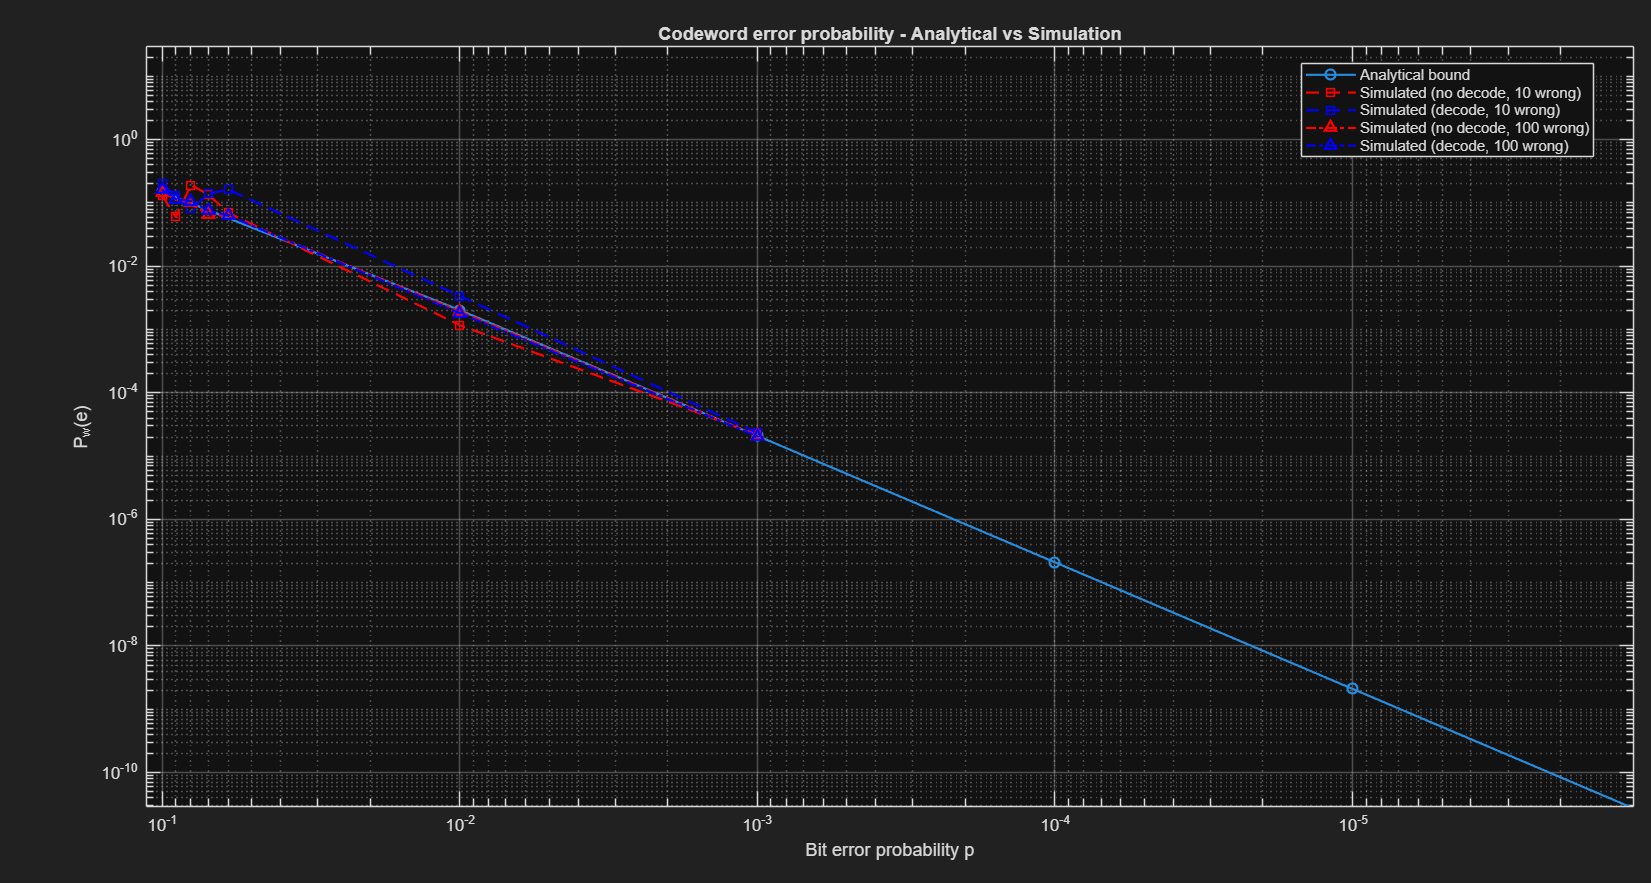
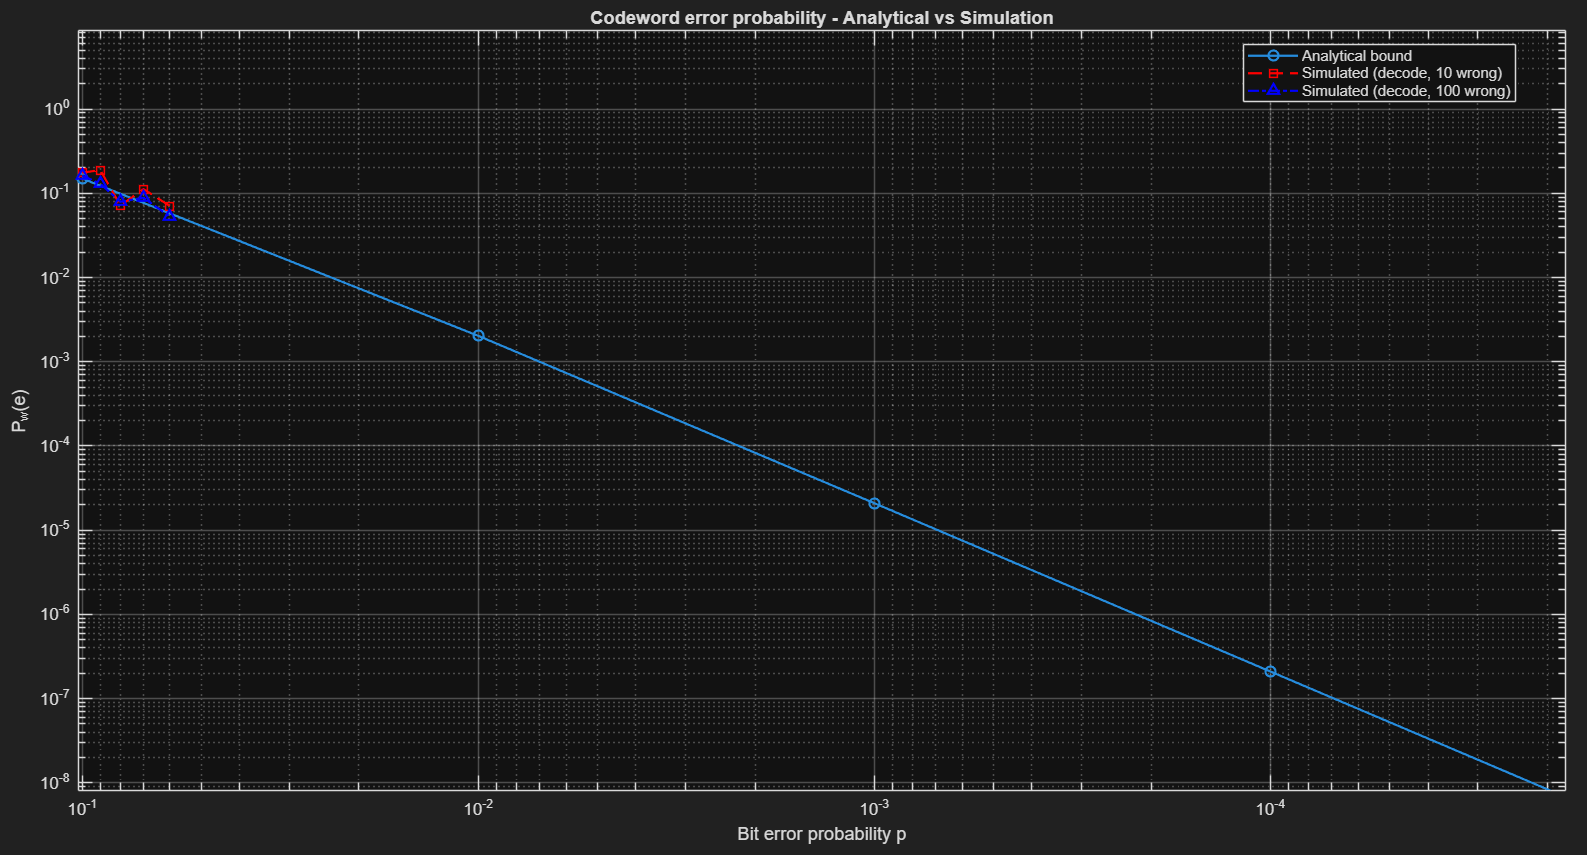
end of the project

Changed region(s): [[0.0, 0.0, 1.0, 1.0]]

diff --git a/assignement1/assignement1_ex3.m b/assignement1/assignement1_ex3.m
@@ -26,8 +26,9 @@ fprintf('t = %d\n', t);
 
 % Multiplicity (nbr of codeword of each  weight)
 multiplicities = histcounts(weights,0:n+1);
-fprintf('Multiplicities :\n');
-disp(multiplicities);
+Ai = multiplicities(2:end);
+fprintf('Ai (i=1,...,n :\n');
+disp(Ai);
 
 %Compute the upper bound on the codeword error probability Pw (e) by
 %using the analytical formula for p ∈ {10−1, 10−2, 10−3, 10−4, 10−5, 10−6}
@@ -52,11 +53,10 @@ end
 
 %Plot the curve when 10 wrong codewords are observed for each value of ps
 
-ps = [0.1, 0.09, 0.08, 0.07, 0.06, 10^-2, 10^-3];
+ps = [0.1, 0.09, 0.08, 0.07, 0.06];
 
 
 targetWrongs = [10, 100]; 
-Pw_sim_raw = zeros(length(ps), length(targetWrongs));
 Pw_sim_dec = zeros(length(ps), length(targetWrongs));
 
 for tw = 1:length(targetWrongs) 
@@ -64,9 +64,7 @@ for tw = 1:length(targetWrongs)
     for idx = 1:length(ps)
         p = ps(idx);
         num_errors_dec = 0;
-        num_errors_raw = 0;
         totalTrials_dec = 0;
-        totalTrials_raw = 0;
 
 
 
@@ -100,27 +98,10 @@ for tw = 1:length(targetWrongs)
             totalTrials_dec = totalTrials_dec + 1; % Increment the total trials counter
         end
 
-        while num_errors_raw < targetWrong
-
-            % take a message and encode it
-            msg = randi([0 1], 1, k);
-            c = mod(msg * G, 2);
-
-            % BSC canal
-            error_pattern = rand(1, n) < p;
-            y = mod(c + error_pattern, 2);
-
-            if sum(error_pattern) > t
-                num_errors_raw = num_errors_raw + 1;
-            end
-            totalTrials_raw =totalTrials_raw +1;
-
-        end
-        Pw_sim_raw(idx, tw) = num_errors_raw / totalTrials_raw; % Store the simulated probability
         Pw_sim_dec(idx, tw) = num_errors_dec / totalTrials_dec; % Store the simulated probability
 
-        fprintf(' targetWrong=%d: p = %.2f : Pw_sim_raw = %.6e, totalTrials_dec = %d, Pw_sim_dec = %.6e\n', ...
-             targetWrong,p, Pw_sim_raw(idx,tw), totalTrials_dec, Pw_sim_dec(idx,tw));
+        fprintf(' targetWrong=%d: p = %.2f : totalTrials_dec = %d : Pw_sim_dec = %.6e\n', ...
+             targetWrong,p, totalTrials_dec, Pw_sim_dec(idx,tw));
     end
 end
 
@@ -130,10 +111,8 @@ figure;
 loglog(p_values, Pw, '-o', 'LineWidth', 1.3, 'DisplayName', 'Analytical bound');
 hold on;
 
-loglog(ps, Pw_sim_raw(:,1), '--sr', 'LineWidth', 1.3, 'DisplayName', 'Simulated (no decode, 10 wrong)');
-loglog(ps, Pw_sim_dec(:,1), '--sb', 'LineWidth', 1.3, 'DisplayName', 'Simulated (decode, 10 wrong)');
+loglog(ps, Pw_sim_dec(:,1), '--sr', 'LineWidth', 1.3, 'DisplayName', 'Simulated (decode, 10 wrong)');
 
-loglog(ps, Pw_sim_raw(:,2), '-.^r', 'LineWidth', 1.3, 'DisplayName', 'Simulated (no decode, 100 wrong)');
 loglog(ps, Pw_sim_dec(:,2), '-.^b', 'LineWidth', 1.3, 'DisplayName', 'Simulated (decode, 100 wrong)');
 
 set(gca, 'XDir', 'reverse');

diff --git a/assignement1/assignement1_ex1.m b/assignement1/assignement1_ex1.m
@@ -67,8 +67,8 @@ P_UE2 = zeros(size(p_values));
 
 for idx = 1:length(p_values)
     p = p_values(idx);
-    P_UE1(idx) = sum(Ai1' .* (p .^ (0:n)) .* ((1 - p) .^ (n - (0:n))));
-    P_UE2(idx) = sum(Ai2' .* (p .^ (0:n)) .* ((1 - p) .^ (n - (0:n))));
+    P_UE1(idx) = sum(Ai1(2:end)' .* (p .^ (1:n)) .* ((1 - p) .^ (n - (1:n))));
+    P_UE2(idx) = sum(Ai2(2:end)' .* (p .^ (1:n)) .* ((1 - p) .^ (n - (1:n))));
 end
 
 % Display the probabilities of undetected error for both codewords
@@ -141,8 +141,8 @@ end
 
 % s = y * H
 
-syndrome1 = mod(receivedC1 * H1', 2)
-syndrome2 = mod(receivedC2 * H2', 2)
+syndrome1 = mod(receivedC1 * H1', 2);
+syndrome2 = mod(receivedC2 * H2', 2);
 
 % If the syndrome is zero, check if there is an undetected error
 % Repeat until you observe at least 100 undetected error events
@@ -223,11 +223,12 @@ disp('Proba simulated  (G2) :'); disp(P_UE_sim2);
 %For the better of the two codes, compute 1 − P(COR, i) for i = 1, 2, 3
 % and plot the corresponding curves as a function of p.
 
-% G2 is better for the P(UE) proba
+% G1 is way better we can see it during the testing of the number 
+%of UE
 
-best = 'G2'
-P_UE_best = P_UE2;    % P(UE) for G2
-n = size(G2, 2);      % Lenght of the code
+best = 'G1';
+P_UE_best = P_UE1;    % P(UE) for G1
+n = size(G1, 2);      % Lenght of the code
 p_grid = p_values;
 
 maxTransmissions = 3;
@@ -238,11 +239,11 @@ P_fail = zeros(length(p_grid), maxTransmissions); % 1 - P_COR
 for idx = 1:length(p_grid)
     p = p_grid(idx);
 
-    Pc = (1-p)^n; %Proba of a correct transmission
+    Pc = (1-p)^n; %Proba of an correct transmission
 
     Pue = P_UE_best(idx);  % proba of an UE
 
-    Prej = 1 - Pc - Pue; %Proba of a detected error
+    Prej = 1- Pc - Pue; %Proba of a detected error
 
     %Computation of P_COR(i) 
 
@@ -273,15 +274,3 @@ title(sprintf('Proba of failure with max %d transmissions — Code %s',maxTransm
 legend('Location','best');
 grid on;
 hold off;
-
-% numerical part
-disp('=== important figure of part 4 ===');
-disp('   p         Pc          Pue         Prej        1-P_COR(i=1..3)');
-for idx = 1:length(p_grid)
-    p = p_grid(idx);
-    Pc = (1 - p)^n;
-    Pue = P_UE_best(idx);
-    Prej = 1 - Pc - Pue;
-    fprintf('p=%.1e  Pc=%.3e  Pue=%.3e  Prej=%.3e  [%.3e  %.3e  %.3e]\n', ...
-        p, Pc, Pue, Prej, P_fail(idx,1), P_fail(idx,2), P_fail(idx,3));
-end
